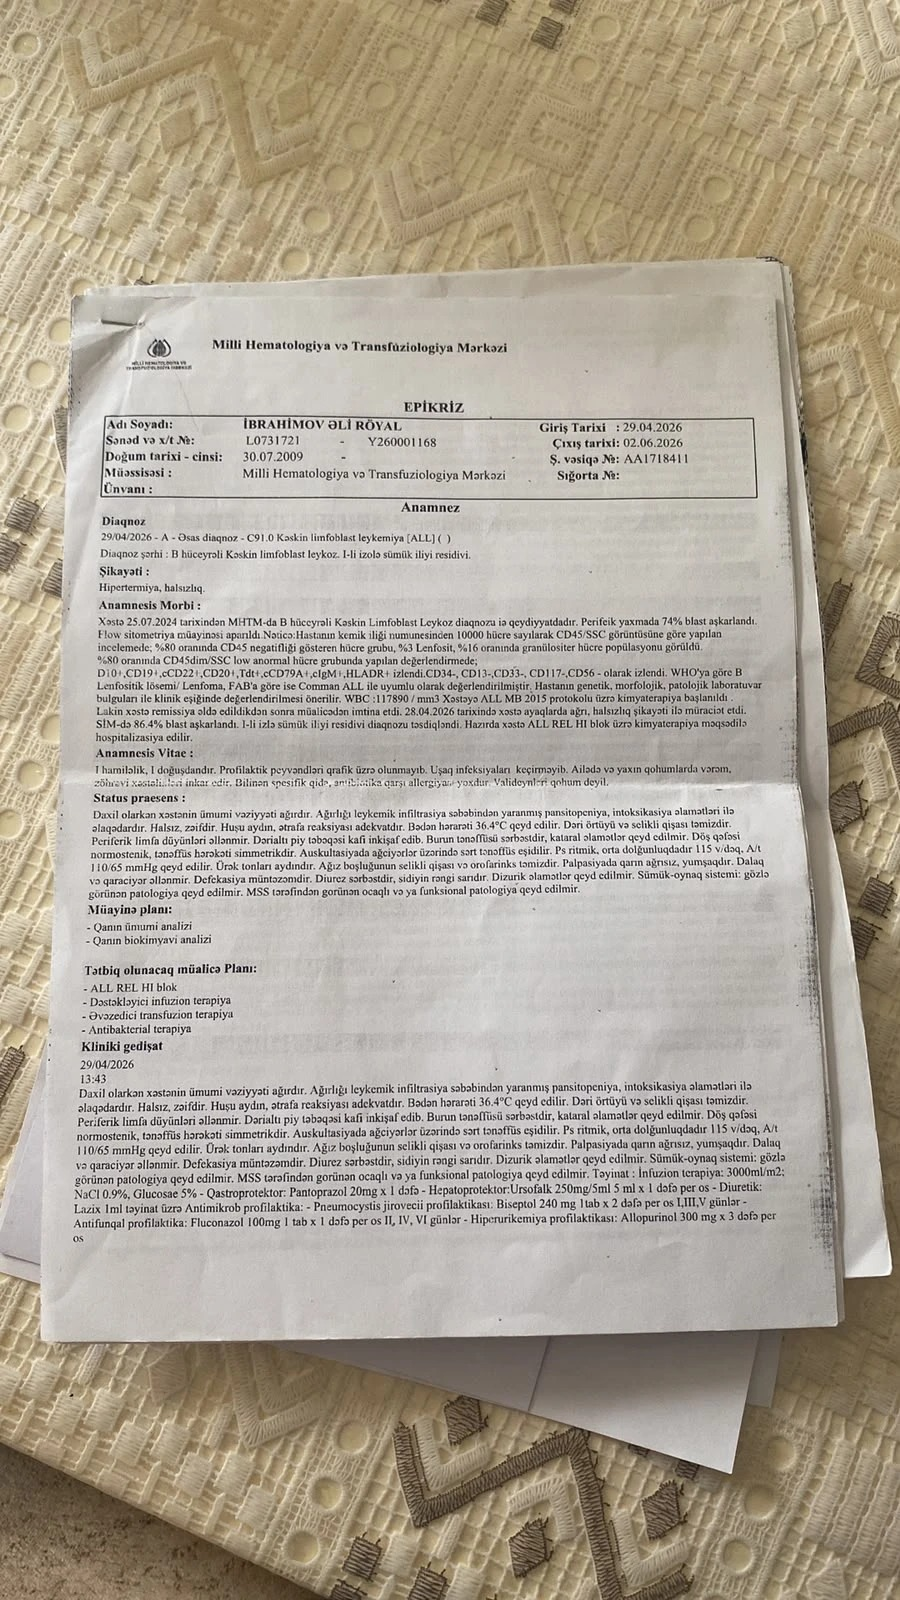
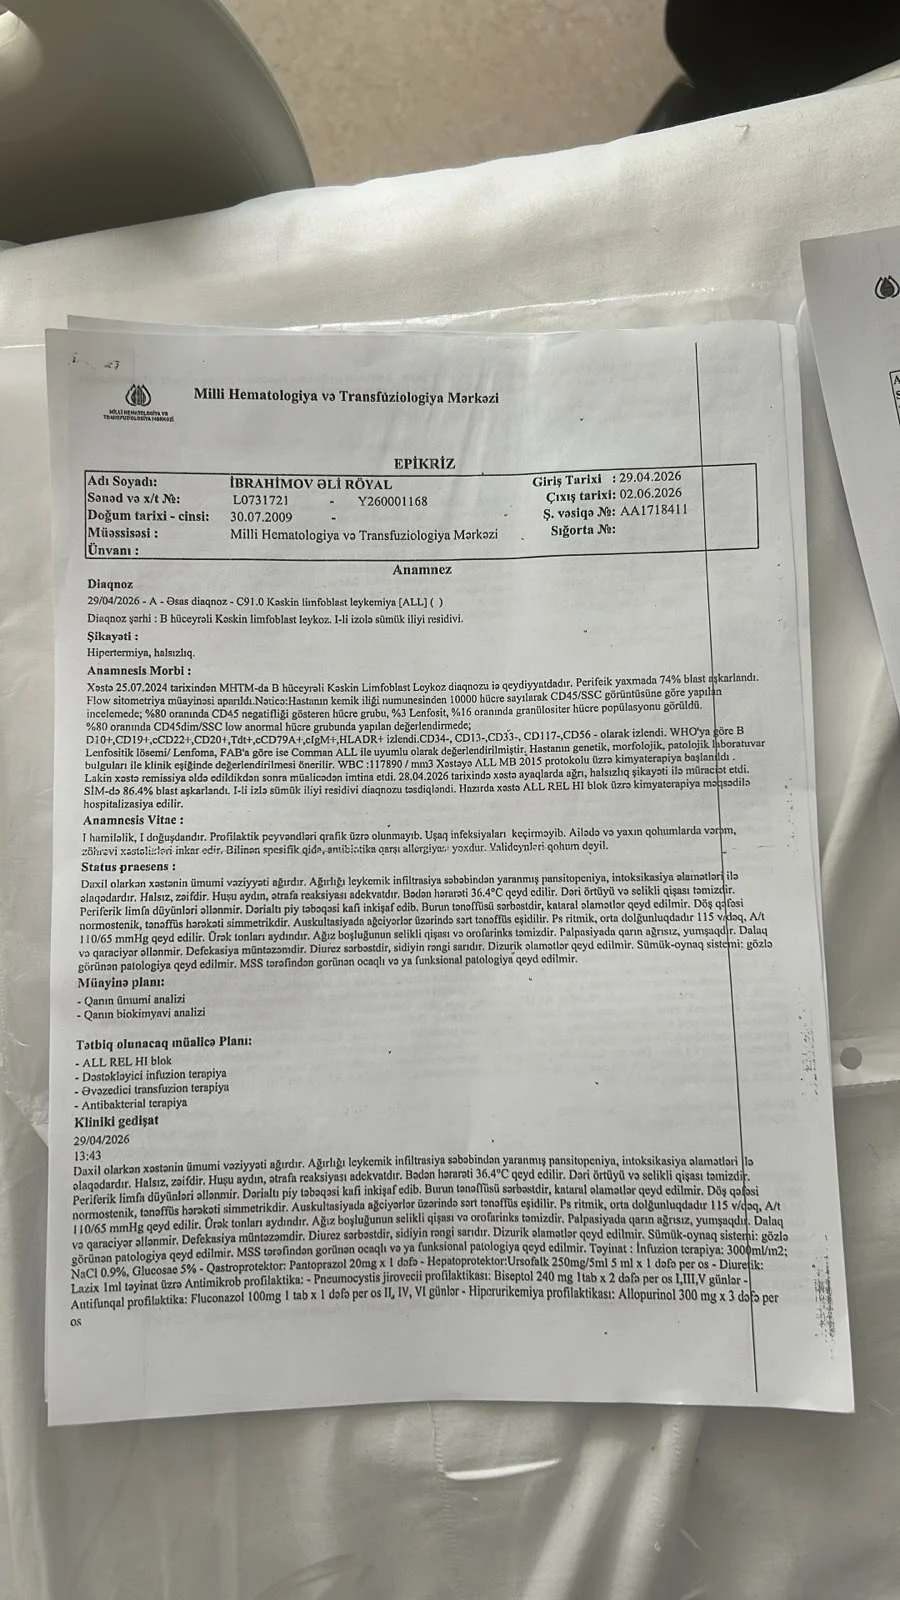
Replace epikriz photos with clearer versions

diff --git a/index.html b/index.html
@@ -333,11 +333,11 @@
         </div>
 
         <div class="docs-grid">
-          <button type="button" class="doc-thumb" data-src="images/docs/doc-1.jpg" aria-label="Document 1">
-            <img src="images/docs/doc-1.jpg" alt="Medical document" loading="lazy" />
+          <button type="button" class="doc-thumb" data-src="images/docs/doc-1.jpg?v=2" aria-label="Document 1">
+            <img src="images/docs/doc-1.jpg?v=2" alt="Medical document" loading="lazy" />
           </button>
-          <button type="button" class="doc-thumb" data-src="images/docs/doc-3.jpg" aria-label="Document 2">
-            <img src="images/docs/doc-3.jpg" alt="Medical document" loading="lazy" />
+          <button type="button" class="doc-thumb" data-src="images/docs/doc-3.jpg?v=2" aria-label="Document 2">
+            <img src="images/docs/doc-3.jpg?v=2" alt="Medical document" loading="lazy" />
           </button>
         </div>
       </div>
